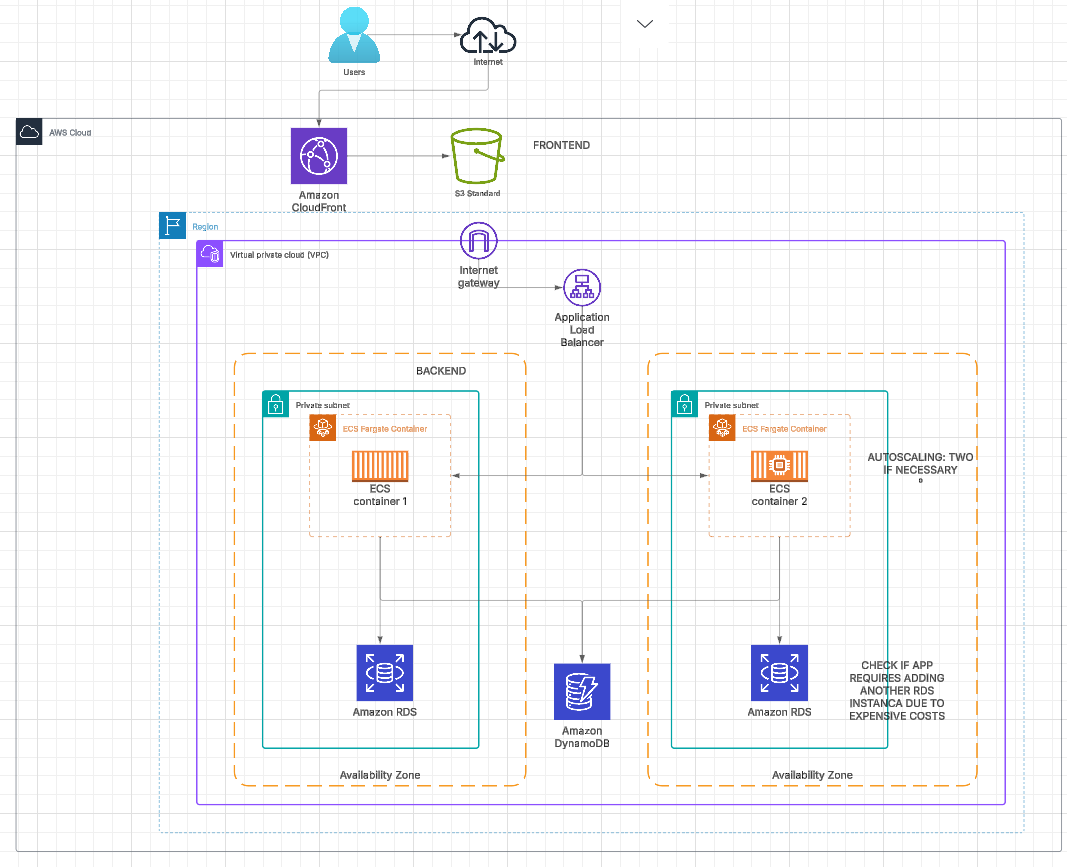
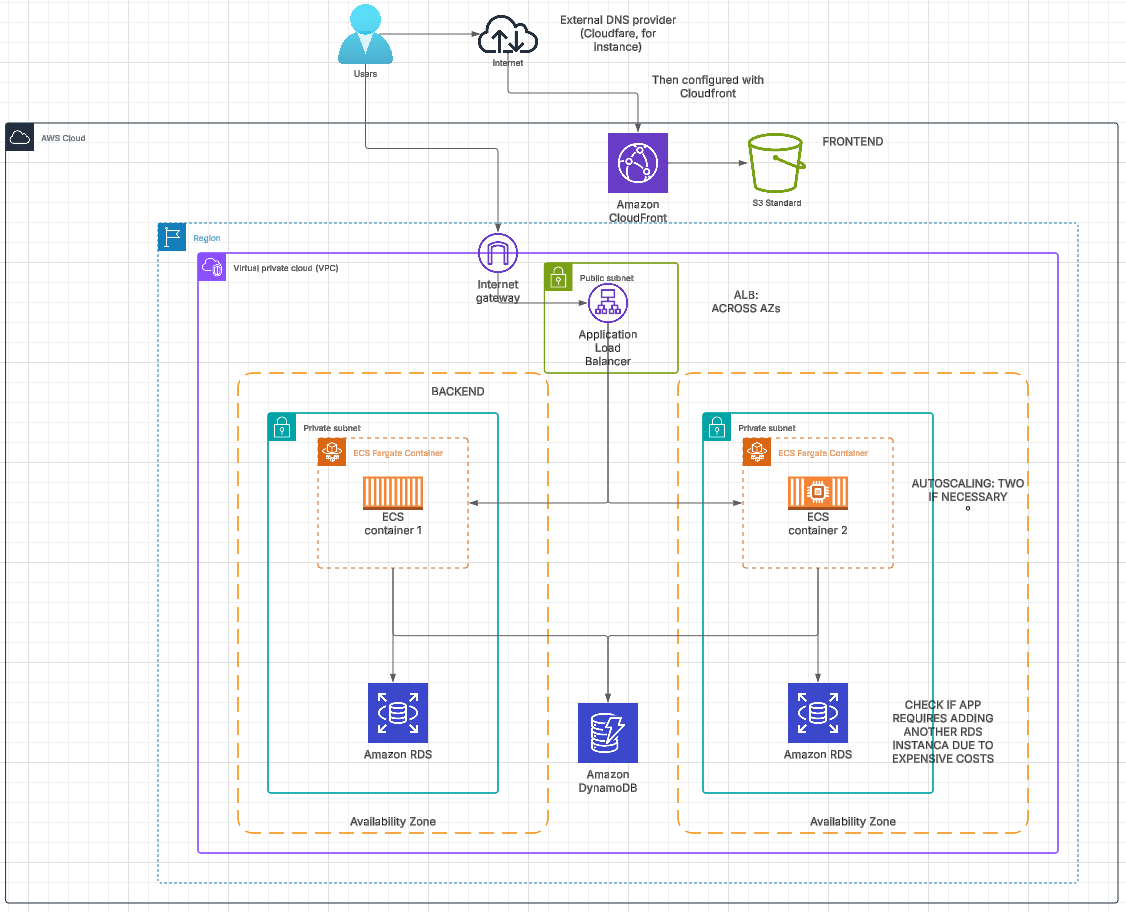
Final: Update READMEs and add example image

diff --git a/2_docker_deployment/README.md b/2_docker_deployment/README.md
@@ -86,9 +86,9 @@ docker compose -f docker-compose-local.yaml up --build
 ```
 
 # Deploy to EC2
-- Running Ubuntu, Docker has been installed following [official documentation](https://docs.docker.com/engine/install/ubuntu/#install-using-the-repository).
-- Installed [AWS CLI](https://docs.aws.amazon.com/cli/latest/userguide/getting-started-install.html)
-- EC2 instance must have permission to retrieve secrets
+* Running Ubuntu, Docker has been installed following [official documentation](https://docs.docker.com/engine/install/ubuntu/#install-using-the-repository).
+* Installed [AWS CLI](https://docs.aws.amazon.com/cli/latest/userguide/getting-started-install.html)
+* EC2 instance must have permission to retrieve secrets
 ```json
 {
   "Version": "2012-10-17",
@@ -102,7 +102,7 @@ docker compose -f docker-compose-local.yaml up --build
 }
 
 ```
-- The following steps are already automated by `.github/workflows/2_docker_deployment.yaml`:
+* The following steps are already automated by `.github/workflows/2_docker_deployment.yaml`:
 ```sh
 $DOCKER_USERNAME="gsarapura"
 
@@ -119,5 +119,7 @@ docker push $IMAGE_TAG_NAME
 
 # Also the load of the script and docker compose yaml into EC2 instance as the execution of the script in charge of setting up and running docker compose.
 ```
-- In `init_docker_compose.bash`, docker compose is set up and started. Using AWS cli to retrieve credentials from Secret Manager as removing the content of .env file when docker compose is started.
-- Getting CORS error in EC2 instance, but working locally. This error is caused by missing EC2 host in "CORS_ALLOWED_ORIGINS" list (`backend/core/setting.py`).
+* Frontend Dockerhub: https://hub.docker.com/repository/docker/gsarapura/craftech-2-docker-deployment-frontend/general
+* Backend Dockerhub: https://hub.docker.com/repository/docker/gsarapura/craftech-2-docker-deployment-backend/general
+* In `init_docker_compose.bash`, docker compose is set up and started. Using AWS cli to retrieve credentials from Secret Manager as removing the content of .env file when docker compose is started.
+* Getting CORS error in EC2 instance, but working locally. This error is caused by missing EC2 host in "CORS_ALLOWED_ORIGINS" list (`backend/core/setting.py`).

diff --git a/1_diagram/README.md b/1_diagram/README.md
@@ -20,7 +20,7 @@ Ensuring HA means ensuring that a system continues functioning despite of compon
 
 ### Frontend
 
-The frontend of the application is developed in JavaScript, utilizing a modern framework such as React or Angular. This frontend is deployed on Amazon S3 as a static website, allowing for fast and efficient access for end users. To manage traffic and improve user experience, I employ Amazon CloudFront as a content delivery network (CDN).
+The frontend of the application is developed in JavaScript, utilizing a modern framework such as React or Angular. This frontend is deployed on Amazon S3 as a static website, allowing for fast and efficient access for end users. To manage traffic and improve user experience, I employ Amazon CloudFront as a content delivery network (CDN) that then needs to configured with an external DNS provider, such as Cloudfare. 
 - S3: General purpose - It will be across different AZ.
 
 ### Backend
@@ -53,3 +53,9 @@ This architecture on AWS provides a scalable and resilient approach capable of h
 
 Done with LucidChart - [Link here](https://lucid.app/lucidchart/1c9c4e97-60d3-4fca-93f7-8c783c479064/edit?viewport_loc=-1949%2C-1511%2C4085%2C1760%2C0_0&invitationId=inv_7f08654f-37cd-4f9e-9d4c-f12b2226ee8e)
 
+
+## Extras
+### CI/CD
+- GitHub Action that updates backend image in ECR and restarts ECS service. 
+
+![Image](/1_diagram/PIPELINE_EXAMPLE.png)
